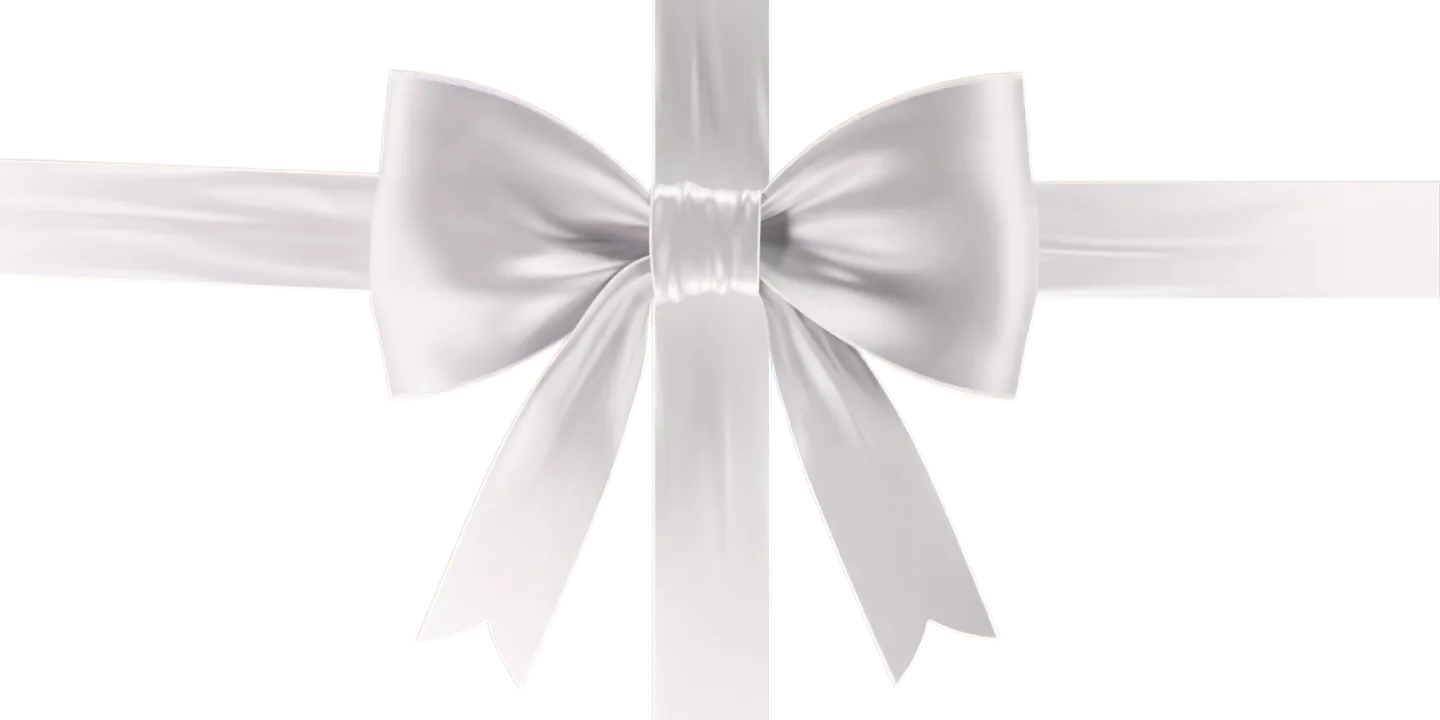
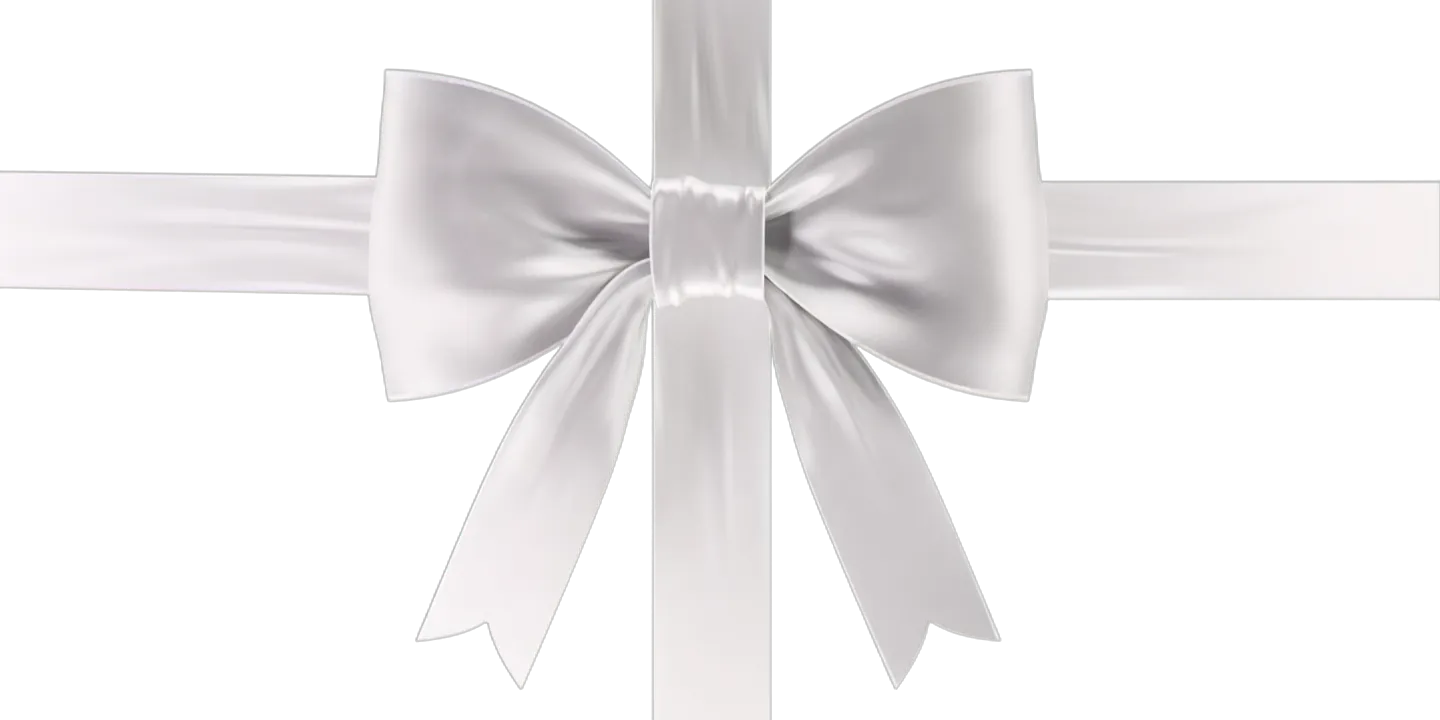
Bow animation: new 2s / 24fps video (48 frames)

diff --git a/script.js b/script.js
@@ -23,8 +23,8 @@
   window.addEventListener('resize', fitBow);
 
   /* ---------- Покадровая анимация банта + прелоудер ---------- */
-  const FRAMES = 12;          // кадры видео (12 к/с, 1 с)
-  const ANIM_MS = 1200;       // длительность проигрывания; кадры плавно перетекают друг в друга
+  const FRAMES = 48;          // кадры видео (24 к/с, 2 с)
+  const ANIM_MS = 2000;       // родная длительность; между кадрами — плавное перетекание
   const canvas = document.getElementById('bow-anim');
   const ctx = canvas.getContext('2d');
   const preloader = document.getElementById('preloader');

diff --git a/index.html b/index.html
@@ -150,7 +150,7 @@
 
   <div class="toast" id="toast" role="status">Промокод скопирован</div>
 
-  <script src="script.js?v=30"></script>
+  <script src="script.js?v=31"></script>
   <script type="module" src="src/card3d.js?v=17"></script>
 </body>
 </html>
